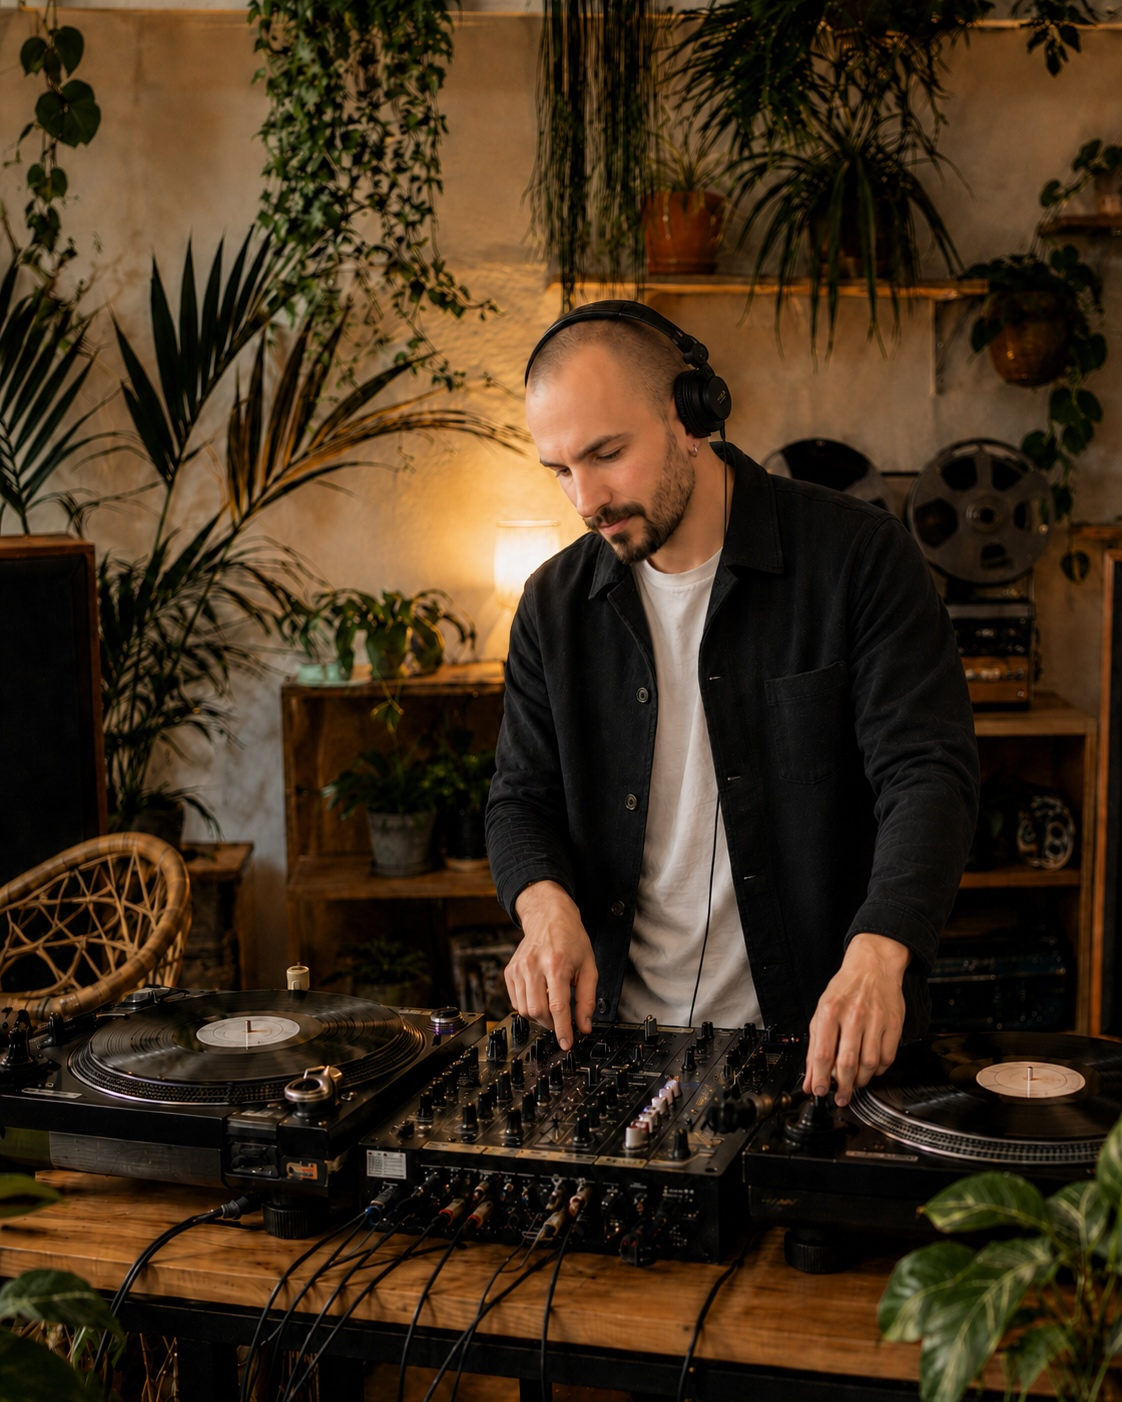
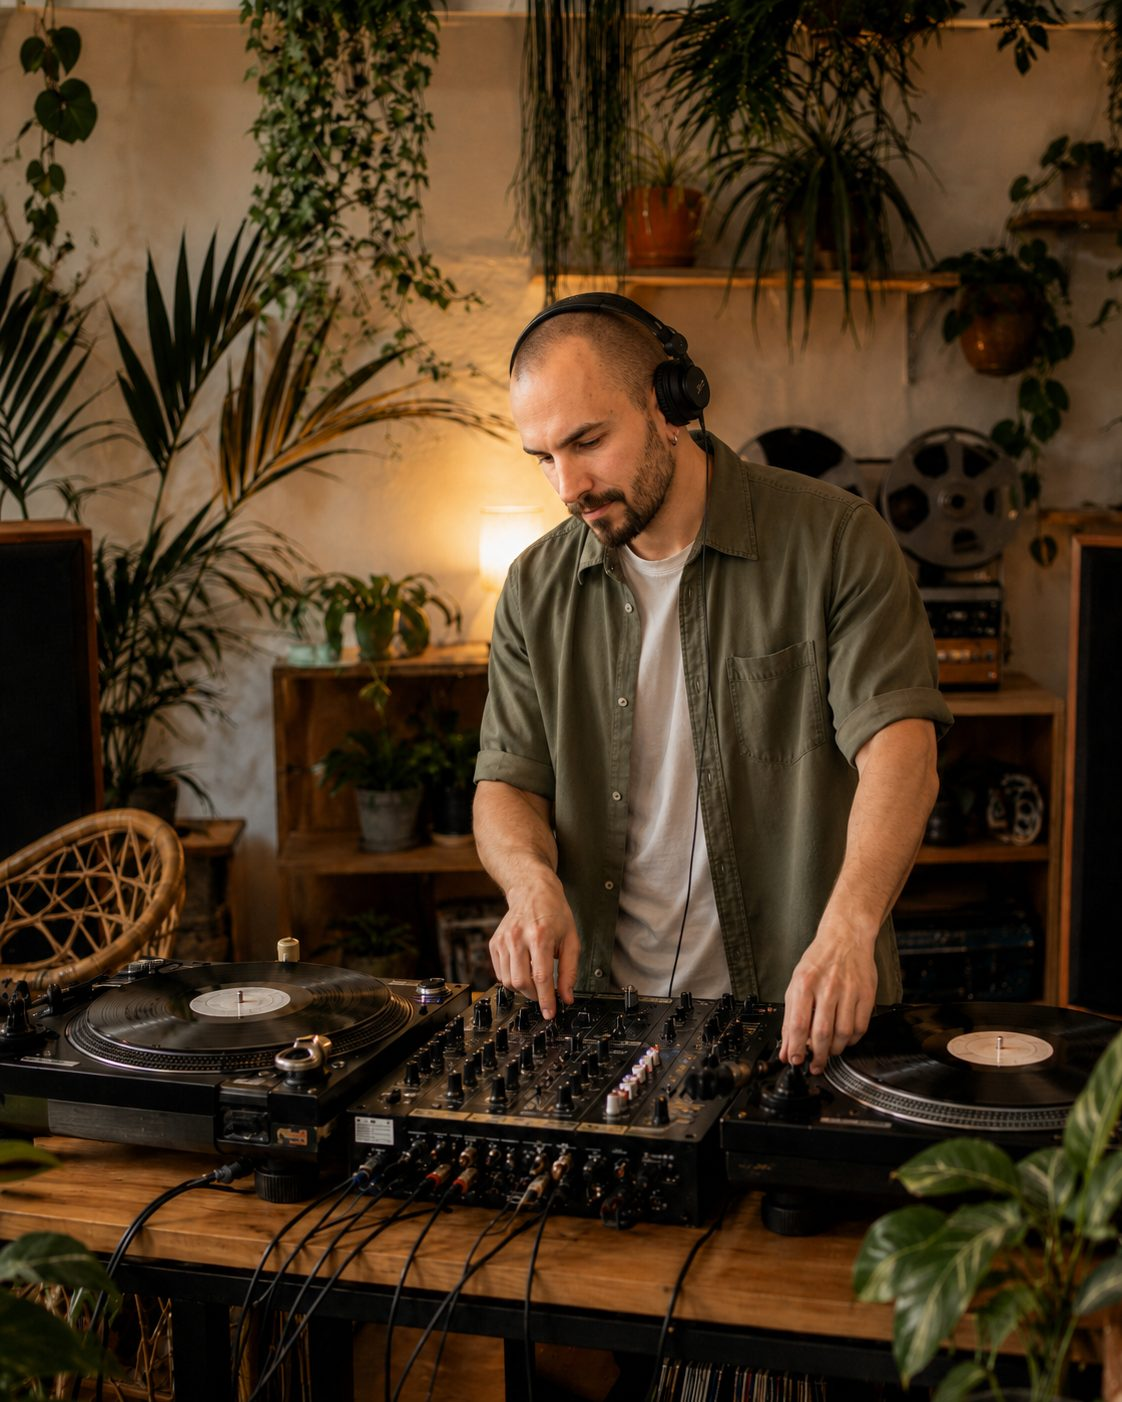
Update website copy
Update website copy

diff --git a/index.html b/index.html
@@ -35,6 +35,7 @@
 <a href="#broadcast">Broadcast</a>
 <a href="#purpose">Purpose</a>
 <a href="#playlists">Playlists</a>
+<a href="#contact">Contact</a>
 </nav>
 </header>
 <main id="content">
@@ -110,7 +111,7 @@
 </div>
 <div class="broadcast-body">
 <h3>Release Presentation</h3>
-<p>Focused presentation formats for singles, artists, playlists and campaign storytelling.</p>
+<p>Explore new releases and stories from the KULTIVATE network.</p>
 </div>
 </article>
 <article class="broadcast-card reveal tilt-card">
@@ -119,7 +120,7 @@
 </div>
 <div class="broadcast-body">
 <h3>DJ Sessions</h3>
-<p>Curated sets that connect brand identity, musical taste and repeat-viewing content.</p>
+<p>Tune into curated DJ sessions shaped by the sound of our music ecosystem.</p>
 </div>
 </article>
 <article class="broadcast-card reveal tilt-card">
@@ -128,7 +129,7 @@
 </div>
 <div class="broadcast-body">
 <h3>Music News</h3>
-<p>A tighter editorial format for music commentary, release context and culture updates.</p>
+<p>Follow release updates, music commentary and cultural notes from the KULTIVATE world.</p>
 </div>
 </article>
 </div>
@@ -170,7 +171,7 @@
 <div class="playlists-lean reveal">
 <div class="playlists-copy">
 <h2>Tap into our curated playlist ecosystem, built for lasting music discovery.</h2>
-<p>Curated playlist worlds built for catalog discovery, repeat listening and long-term music growth.</p>
+<p>A curated playlist ecosystem built for catalog discovery, repeat listening and long-term music growth.</p>
 </div>
 <div aria-label="KULTIVATE playlist network" class="playlist-links playlist-links-lean">
 <a href="https://open.spotify.com/playlist/0gCNFjw72jmOgLPyIkrGrm" rel="noopener noreferrer" target="_blank">
@@ -196,12 +197,24 @@
 </div>
 </div>
 </section>
+
+<section aria-labelledby="contact-title" class="section contact-section" id="contact">
+  <div class="contact-card glass-panel">
+    <p class="eyebrow">Contact</p>
+    <h2 id="contact-title">Send us the good stuff.</h2>
+    <p class="contact-copy">Demos, partnerships, playlist submissions or promising ideas — we’re listening.</p>
+    <a class="contact-button" href="mailto:hello@kultivatemusic.com?subject=KULTIVATE%20Music%20Inquiry">Send it over</a>
+    <p class="contact-alternative">Or email us directly at <a href="mailto:hello@kultivatemusic.com">hello@kultivatemusic.com</a></p>
+  </div>
+</section>
+
 </main>
 <footer class="site-footer">
 <a aria-label="Back to top" class="footer-logo" href="#top">
 <img alt="KULTIVATE KLTV logo" src="assets/logo-kltv.svg"/>
 </a>
 <div class="footer-links">
+<a href="#contact">Contact</a>
 <a href="imprint.html">Imprint</a>
 <a href="privacy.html">Privacy</a>
 <a href="accessibility.html">Accessibility</a>

diff --git a/css/styles.css b/css/styles.css
@@ -1373,3 +1373,103 @@ main{
     border-radius:24px;
   }
 }
+
+
+/* Contact section */
+.contact-section{
+  padding-top:clamp(5.5rem, 10vw, 9rem);
+}
+.contact-card{
+  position:relative;
+  overflow:hidden;
+  padding:clamp(2.1rem, 6vw, 4.8rem);
+  background:
+    radial-gradient(circle at 12% 18%, rgba(2,245,240,.19), transparent 34%),
+    radial-gradient(circle at 90% 16%, rgba(224,65,156,.17), transparent 32%),
+    rgba(255,255,255,.78);
+}
+.contact-card::before,
+.contact-card::after{
+  content:"";
+  position:absolute;
+  border-radius:999px;
+  pointer-events:none;
+  filter:blur(.2px);
+}
+.contact-card::before{
+  width:220px;
+  height:220px;
+  right:9%;
+  top:12%;
+  background:rgba(2,245,240,.13);
+}
+.contact-card::after{
+  width:150px;
+  height:150px;
+  left:8%;
+  bottom:10%;
+  background:rgba(224,65,156,.12);
+}
+.contact-card > *{
+  position:relative;
+  z-index:1;
+}
+.contact-card h2{
+  margin:0;
+  max-width:760px;
+  color:var(--text);
+  font-size:clamp(2.4rem, 6.8vw, 5.8rem);
+  line-height:.96;
+  letter-spacing:-.06em;
+  font-weight:760;
+}
+.contact-copy{
+  max-width:780px;
+  margin-top:1.35rem;
+  color:var(--text);
+  font-size:clamp(1.04rem, 2vw, 1.22rem);
+  line-height:1.64;
+  font-weight:480;
+}
+.contact-button{
+  display:inline-flex;
+  align-items:center;
+  justify-content:center;
+  min-height:3.25rem;
+  margin-top:2rem;
+  padding:0 1.35rem;
+  border-radius:999px;
+  color:#fff;
+  background:var(--text);
+  box-shadow:0 18px 38px rgba(28,38,41,.14);
+  font-weight:760;
+  letter-spacing:-.02em;
+  transition:transform .22s ease, background-color .22s ease, box-shadow .22s ease;
+}
+.contact-button:hover,
+.contact-button:focus-visible{
+  transform:translateY(-2px);
+  background:var(--magenta);
+  box-shadow:0 20px 44px rgba(224,65,156,.18);
+}
+.contact-alternative{
+  margin-top:1.35rem;
+  color:rgba(28,38,41,.7);
+  font-size:.98rem;
+  line-height:1.55;
+}
+.contact-alternative a{
+  color:var(--text);
+  font-weight:760;
+  border-bottom:1px solid rgba(28,38,41,.34);
+}
+.contact-alternative a:hover,
+.contact-alternative a:focus-visible{
+  color:var(--magenta);
+  border-bottom-color:var(--magenta);
+}
+
+@media (max-width:720px){
+  .contact-card{padding:2rem 1.35rem;border-radius:24px}
+  .contact-button{width:100%;margin-top:1.6rem}
+}
